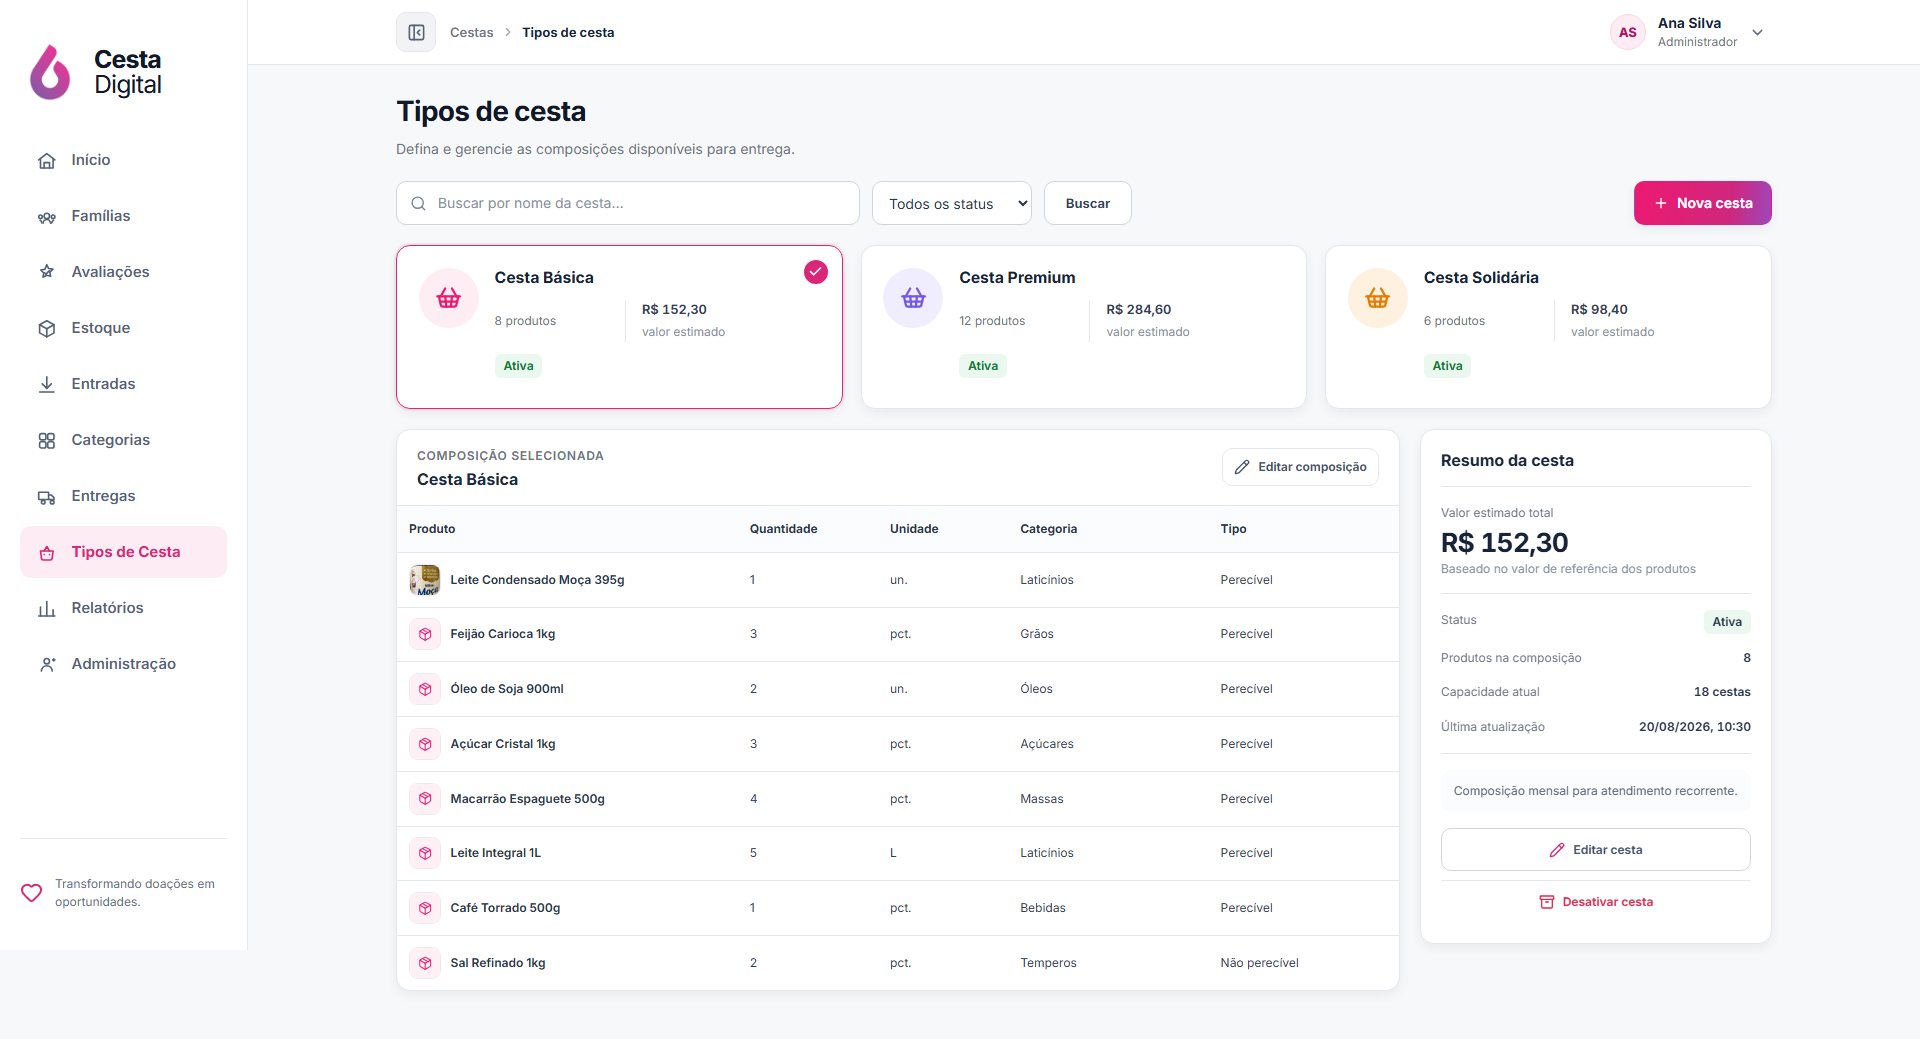
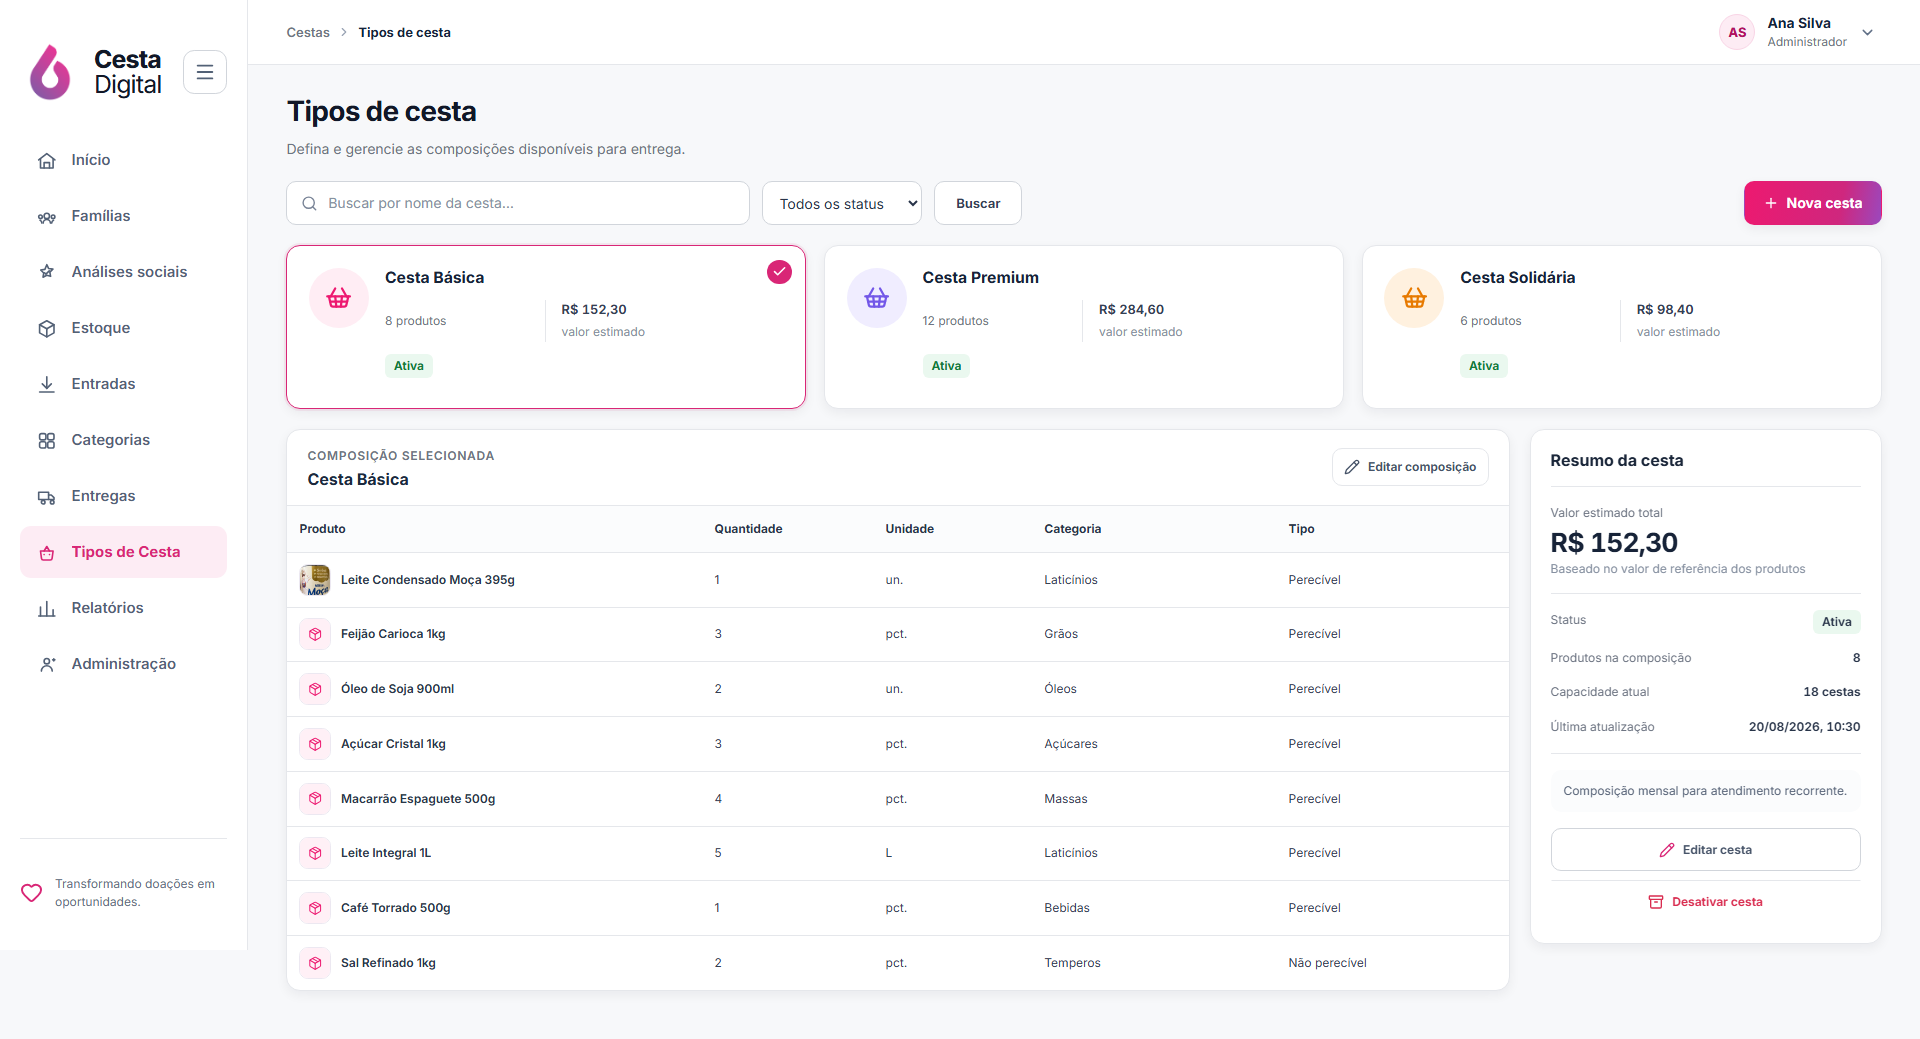
fix: amplia workspace em telas largas

diff --git a/frontend/tests/baskets-visual/baskets.spec.ts b/frontend/tests/baskets-visual/baskets.spec.ts
@@ -134,7 +134,7 @@ test("tipos de cesta segue a referência com composição e resumo reais", async
   await page.screenshot({ path: path.join(evidenceDirectory, `tipos-cesta-${testInfo.project.name}.png`), fullPage: true });
 });
 
-test("desktop amplo mantém topo compacto e composição centralizada", async ({ page }, testInfo) => {
+test("desktop amplo mantém topo compacto e aproveita o espaço operacional", async ({ page }, testInfo) => {
   test.skip(testInfo.project.name !== "desktop-1440", "Validação adicional executada uma vez em desktop amplo.");
   await page.setViewportSize({ width: 1920, height: 950 });
   await page.goto("/basket-types");
@@ -142,11 +142,15 @@ test("desktop amplo mantém topo compacto e composição centralizada", async ({
 
   const topbarBox = await page.locator('header[aria-label="Barra do aplicativo"]').boundingBox();
   const contentBox = await page.locator("#conteudo-principal > section").boundingBox();
+  const workspaceBox = await page.locator("#conteudo-principal").boundingBox();
   const searchBox = await page.getByRole("search").boundingBox();
   const createBox = await page.getByRole("link", { name: "Nova cesta" }).boundingBox();
 
   expect(topbarBox?.height).toBeLessThanOrEqual(65);
-  expect(contentBox?.width).toBeLessThanOrEqual(1441);
+  expect(contentBox).not.toBeNull();
+  expect(workspaceBox).not.toBeNull();
+  expect(contentBox!.width).toBeGreaterThanOrEqual(workspaceBox!.width - 1);
+  expect(contentBox!.width).toBeGreaterThan(1600);
   expect(Math.abs((searchBox?.y ?? 0) - (createBox?.y ?? 0))).toBeLessThanOrEqual(1);
   expect(await page.evaluate(() => document.documentElement.scrollWidth <= document.documentElement.clientWidth)).toBe(true);
 

diff --git a/frontend/tests/administration-visual/administration.spec.ts b/frontend/tests/administration-visual/administration.spec.ts
@@ -85,8 +85,12 @@ test("administração ampla usa abas acima do espaço de trabalho", async ({ pag
   const tableBox = await page.getByRole("table", { name: "Usuários e perfis cadastrados" }).boundingBox();
   const asideBox = await page.locator('main[aria-labelledby="administration-title"] aside').boundingBox();
   const contentBox = await page.locator("#conteudo-principal > section").boundingBox();
+  const workspaceBox = await page.locator("#conteudo-principal").boundingBox();
 
-  expect(contentBox?.width).toBeLessThanOrEqual(1441);
+  expect(contentBox).not.toBeNull();
+  expect(workspaceBox).not.toBeNull();
+  expect(contentBox!.width).toBeGreaterThanOrEqual(workspaceBox!.width - 1);
+  expect(contentBox!.width).toBeGreaterThan(1600);
   expect((navigationBox?.y ?? 0)).toBeLessThan(tableBox?.y ?? 0);
   expect((asideBox?.x ?? 0)).toBeGreaterThan((tableBox?.x ?? 0) + (tableBox?.width ?? 0) - 2);
   expect(await page.evaluate(() => document.documentElement.scrollWidth <= document.documentElement.clientWidth)).toBe(true);
@@ -99,7 +103,7 @@ test("perfis explicam permissões reais", async ({ page }, testInfo) => {
   await page.goto("/users?view=roles");
   await expect(page.getByRole("heading", { name: "Perfis de acesso" })).toBeVisible();
   await expect(page.getByRole("heading", { name: "Administrador", exact: true })).toBeVisible();
-  await expect(page.getByRole("heading", { name: "Operador", exact: true })).toBeVisible();
+  await expect(page.getByRole("heading", { name: "Responsável por estoque", exact: true })).toBeVisible();
   await page.screenshot({ path: path.join(evidenceDirectory, `administracao-perfis-${testInfo.project.name}.png`), fullPage: true });
 });
 

diff --git a/frontend/tests/dashboard-visual/dashboard.spec.ts b/frontend/tests/dashboard-visual/dashboard.spec.ts
@@ -136,10 +136,14 @@ test("dashboard mantém leitura analítica em desktop amplo", async ({ page }, t
   await page.evaluate(() => document.fonts.ready);
 
   const contentBox = await page.locator("#conteudo-principal > section").boundingBox();
+  const workspaceBox = await page.locator("#conteudo-principal").boundingBox();
   const distributionBox = await page.getByRole("region", { name: "Situação das famílias" }).boundingBox();
   const quickActionsBox = await page.getByRole("region", { name: "Ações rápidas" }).boundingBox();
 
-  expect(contentBox?.width).toBeLessThanOrEqual(1441);
+  expect(contentBox).not.toBeNull();
+  expect(workspaceBox).not.toBeNull();
+  expect(contentBox!.width).toBeGreaterThanOrEqual(workspaceBox!.width - 1);
+  expect(contentBox!.width).toBeGreaterThan(1600);
   expect(Math.abs((distributionBox?.y ?? 0) - (quickActionsBox?.y ?? 0))).toBeLessThanOrEqual(1);
   expect(await page.evaluate(() => document.documentElement.scrollWidth <= document.documentElement.clientWidth)).toBe(true);
 

diff --git a/frontend/src/layouts/AppLayout.module.css b/frontend/src/layouts/AppLayout.module.css
@@ -311,7 +311,7 @@
   max-width: var(--cd-content-max);
   min-height: var(--cd-topbar-height);
   margin: 0 auto;
-  padding: 0 2rem;
+  padding: 0 var(--cd-workspace-gutter);
 }
 
 .topbarIdentity {
@@ -527,7 +527,7 @@
   width: 100%;
   max-width: var(--cd-content-max);
   margin: 0 auto;
-  padding: 1.75rem 2rem 3rem;
+  padding: 1.75rem var(--cd-workspace-gutter) 3rem;
 }
 
 .drawerBackdrop,

diff --git a/frontend/src/styles/tokens.css b/frontend/src/styles/tokens.css
@@ -63,7 +63,8 @@
   --cd-topbar-height: 4rem;
   --cd-mobile-topbar-height: 3.5rem;
   --cd-mobile-bottom-nav-height: 4rem;
-  --cd-content-max: 90rem;
+  --cd-content-max: 120rem;
+  --cd-workspace-gutter: clamp(1.5rem, 2vw, 2.5rem);
   --cd-form-max: 45rem;
 
   --cd-motion-fast: 120ms;

diff --git a/docs/PROJETO_PROFISSIONAL_CESTA_DIGITAL.md b/docs/PROJETO_PROFISSIONAL_CESTA_DIGITAL.md
@@ -826,6 +826,7 @@ migrations.
 | 17/10/2026 | Matriz de acesso do piloto aprovada | Gabriel aprovou o perfil `colaborador` para o trabalho diário: famílias/membros/benefícios, produtos/entradas/movimentações e entregas. Análises sociais, relatórios e administração permanecem fora desse perfil; categorias e tipos de cesta ficam sem rota/menu e com leitura técnica apenas para preencher formulários. A antiga aba “Avaliações” passa a se apresentar como “Análises sociais”, exclusiva de `admin`/`lider_social`. O backend filtra histórico e prazos de avaliação para perfis não sociais e aplica as mesmas negações da interface. O reset de staging é fail-closed: simulação por padrão e execução somente em `APP_ENV=staging`, com confirmação do banco, dump presente e íntegro, backup v2, restore exato e recente em banco isolado e preservação de admin ativo. Sem migration; execução no banco público continua bloqueada até existir evidência privada válida de backup/restore. Gates locais: backend 90/90, frontend lint/build e E2E 49/49, visual de Análises sociais 11 aprovado com 5 skips intencionais, contratos operacionais e auditorias de dependências sem falhas. |
 | 18/10/2026 | Correção de acesso, foco e navegação do piloto | O perfil `colaborador` continua apto ao cadastro diário de famílias, membros, benefícios e novos produtos, além de entradas, movimentações e entregas, mas não pode alterar dados mestres de produtos existentes; a restrição foi aplicada na interface e em `PUT /items/{id}`. Relatórios, análises sociais e administração continuam negados. Novos usuários passam a iniciar somente como colaborador, enquanto perfis elevados exibem aviso explícito sobre o acesso adicional. O inicializador do sandbox agora sincroniza perfis estruturais ausentes em bases antigas sem apagar os dados existentes. O menu desktop recebeu o controle de recolhimento dentro da própria sidebar; no mobile, o controle permanece no topo para permitir reabertura. Diálogos e drawers deixaram de reinstalar o gerenciamento de foco a cada caractere, corrigindo a perda de digitação. Sem migration. Gates locais: backend 92/92, frontend lint/build e E2E 50/50, shell visual 13 aprovados com 3 skips e Administração 2 cenários focados aprovados com 2 skips por viewport. |
 | 18/10/2026 | Refinamento premium de Análises sociais | A fila foi recomposta como área operacional, sem alterar sua regra: ação primária integrada ao cabeçalho, quatro indicadores com escala e hierarquia reforçadas, busca em faixa de largura integral, tabela mais legível e proporção fluida com o painel da família selecionada. Em 360/390 px, os indicadores passam a 2 × 2 para reduzir rolagem antes da fila; 768 px mantém cards próprios e 1440/1920 px preservam tabela e contexto lateral. Foco, hover, movimento reduzido, conteúdo longo e ausência de overflow foram revalidados. Sem alteração de API, RBAC, backend, banco ou migration. Gates: lint/build, E2E 50/50 e visual de Análises sociais 13 aprovados com 7 skips intencionais. Evidências atualizadas em `frontend/showcase/evidence/v2-07/`. |
+| 18/10/2026 | Correção da largura operacional em monitores amplos | O limite global de 1440 px foi identificado como causa do excesso de vazio nas laterais em Full HD. Topbar e conteúdo passam a compartilhar uma área fluida de até 1920 px, com margem responsiva de 24–40 px; formulários continuam usando limites locais de leitura. Dashboard, Tipos de Cesta e Administração ganham regressões que exigem aproveitamento real da largura disponível em 1920 px. Sem alteração de regra de negócio, API, RBAC, backend ou banco. Gates: lint/build, E2E 50/50, Dashboard 13 aprovados com 3 skips, shell 13 com 3 skips, Análises sociais 13 com 7 skips, Tipos de Cesta 9 com 7 skips e Administração 11 com 9 skips intencionais. |
 
 Próximo gate: executar o roteiro de
 [`PLANO_ENTRADA_EM_USO.md`](./PLANO_ENTRADA_EM_USO.md) contra a infraestrutura

diff --git a/docs/direção_visual/PLANO_ENGENHARIA_FRONTEND_V2_CESTA_DIGITAL.md b/docs/direção_visual/PLANO_ENGENHARIA_FRONTEND_V2_CESTA_DIGITAL.md
@@ -165,7 +165,7 @@ Se futuramente houver listagem de avaliações, entradas/lotes ou relatórios, a
 - Logo compacto no topo da sidebar. Não duplicar marca na topbar.
 - Itens agrupados por módulo; estado ativo com fundo `brand-soft`, ícone/texto escuros e detalhe rosa discreto.
 - Topbar de 64 px: breadcrumb/section opcional à esquerda; conta/notificações/contexto à direita.
-- Área de conteúdo fluida até 1440 px. Tabelas aproveitam largura; formulários limitados a ~720 px.
+- Área operacional fluida até 1920 px, com margem lateral responsiva de 24–40 px. Tabelas e painéis aproveitam a largura; formulários mantêm limites locais adequados à leitura.
 
 ### 7.2 Mobile < 900 px
 
